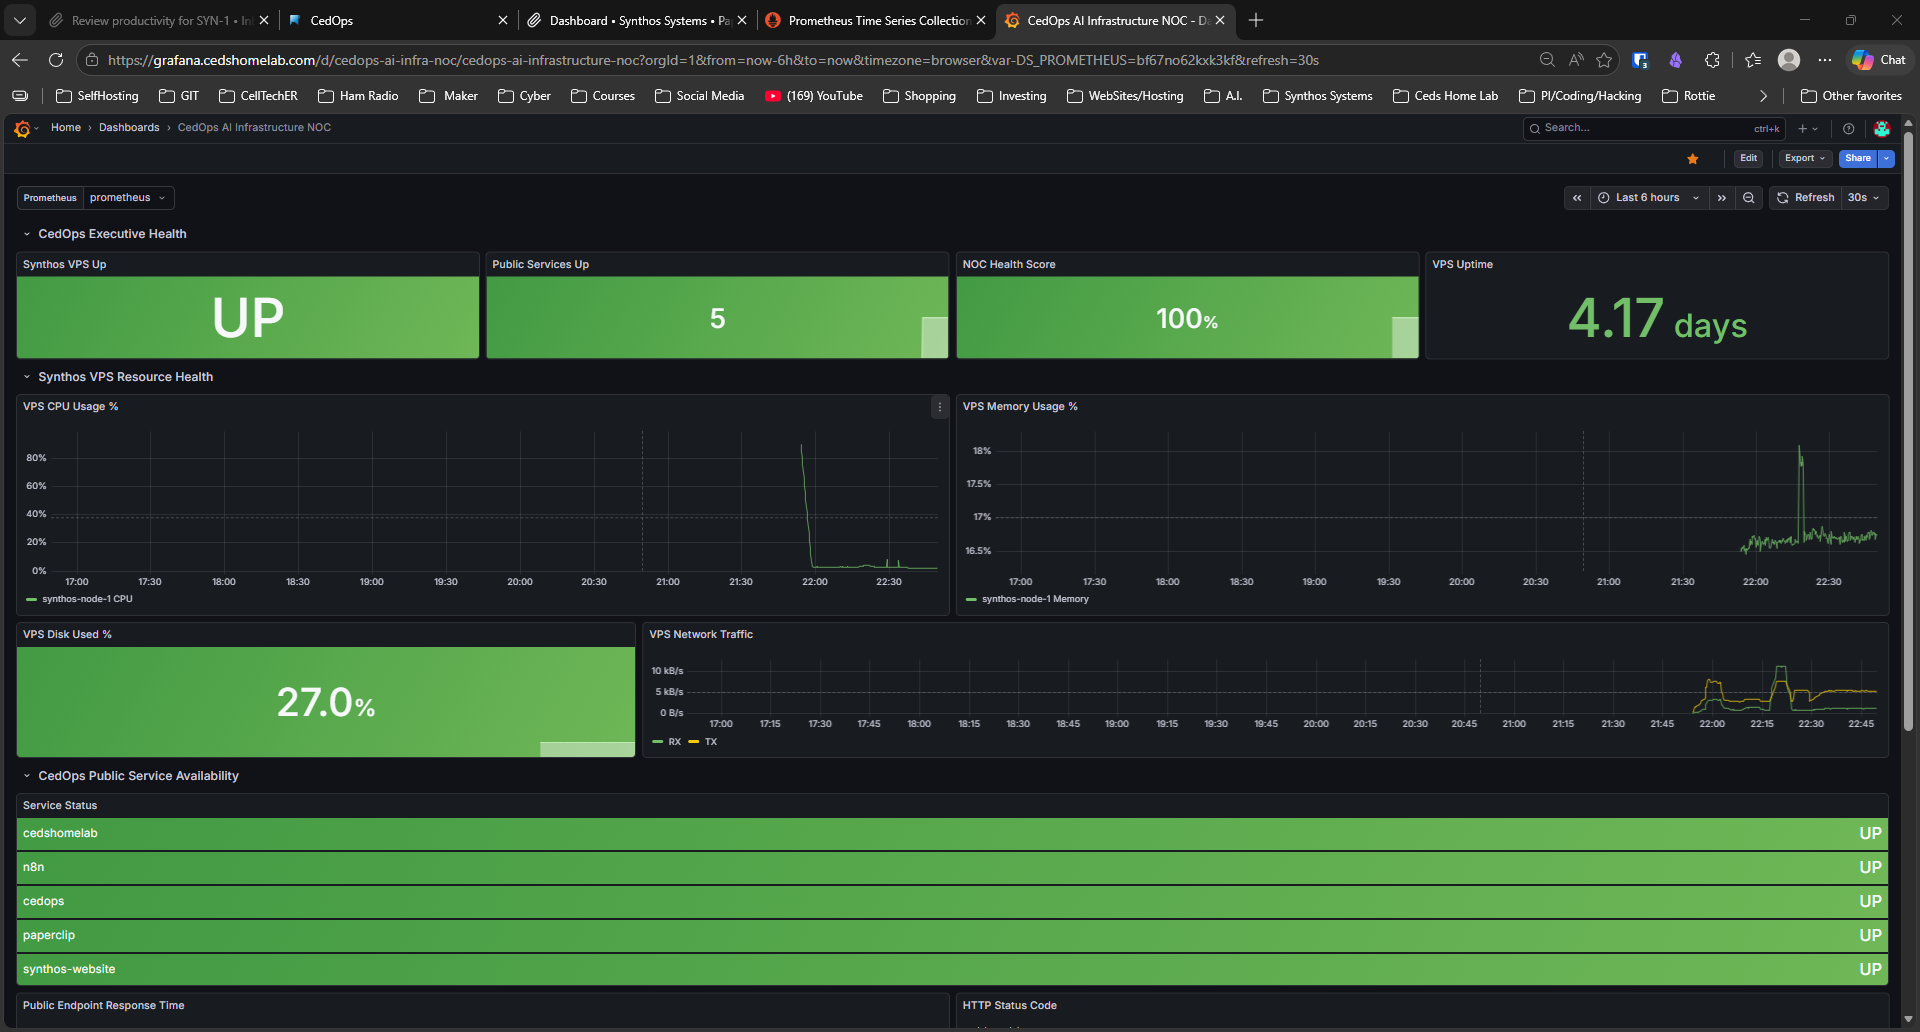
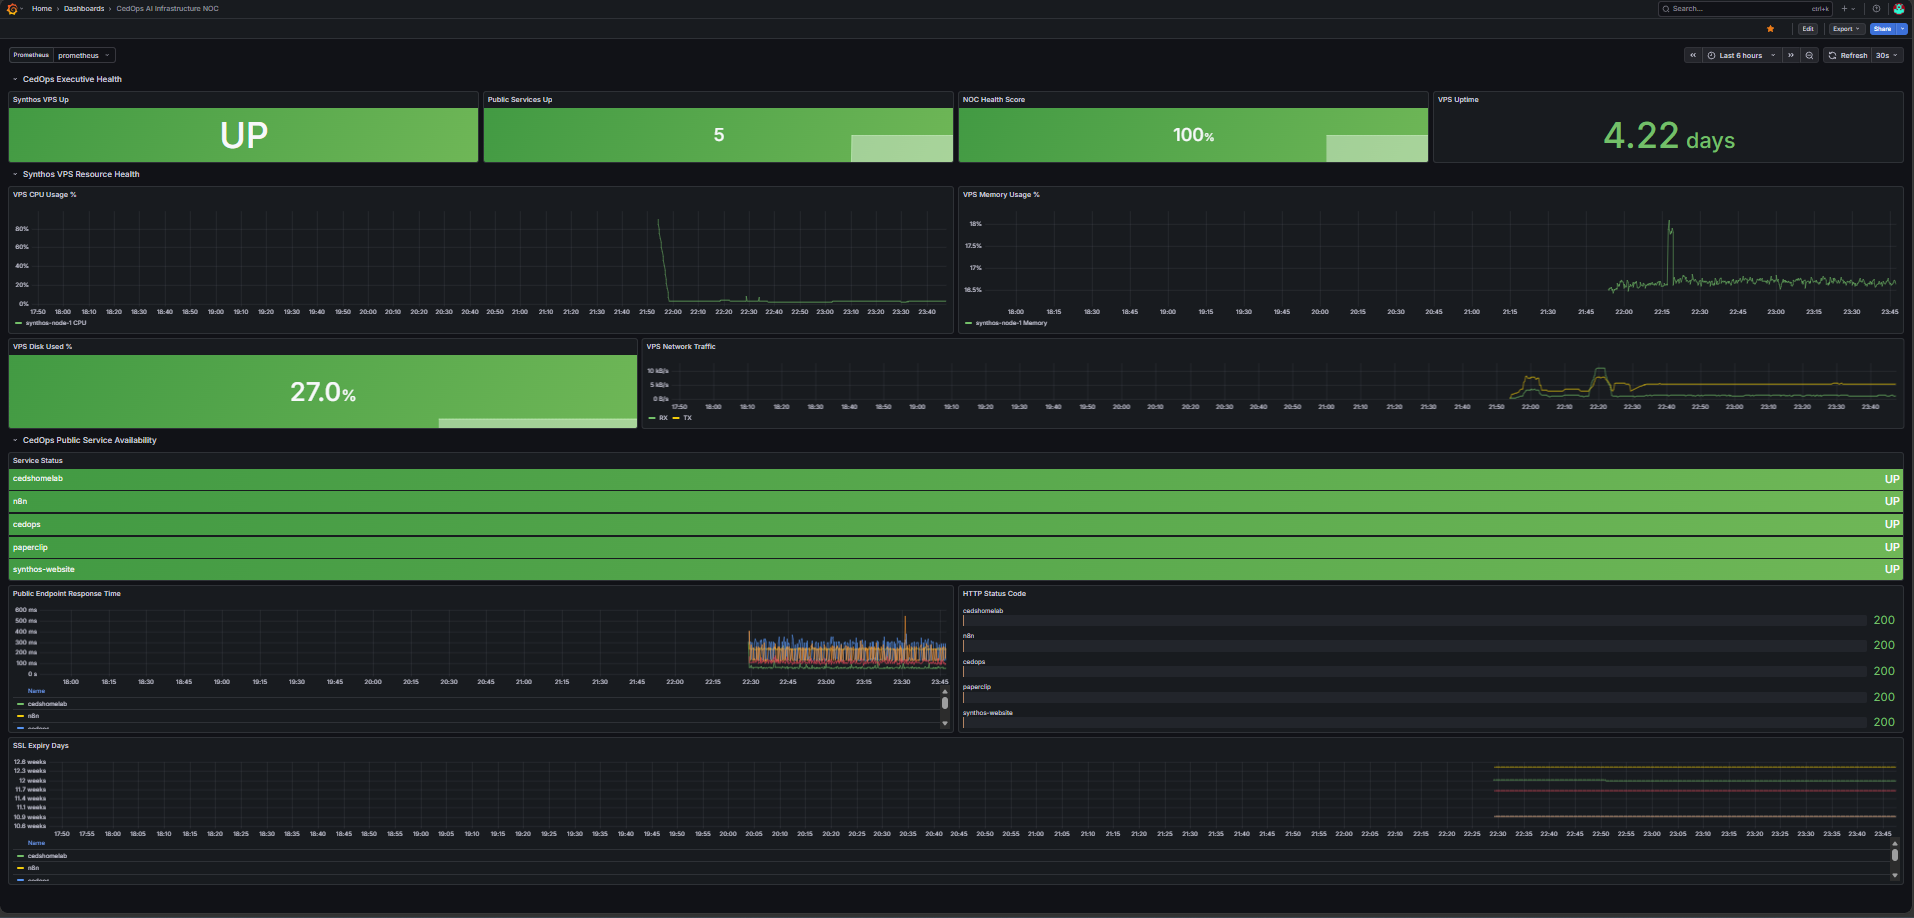
Add elite README for CedOps AI Infrastructure NOC

diff --git a/README.md b/README.md
@@ -1,0 +1,246 @@
+# 🚀 CedOps — AI Infrastructure Operations NOC
+
+![Dashboard](docs/screenshots/dashboard_v1.png)
+
+## Overview
+
+CedOps is an **AI-Assisted Infrastructure Operations Platform** designed to provide centralized monitoring, observability, uptime management, and operational visibility across a hybrid environment of:
+
+- 🏠 Homelab Infrastructure
+- ☁ VPS Cloud Infrastructure
+- 🤖 AI Operations Systems
+- 🌐 Public-Facing Services
+- 📡 Network & Platform Health
+
+The platform combines:
+
+- **Prometheus** for metrics collection
+- **Grafana** for visualization
+- **Blackbox Exporter** for service monitoring
+- **Node Exporter** for infrastructure metrics
+- **Tailscale** for secure private observability
+- **Proxmox VE** for virtualization
+- **Docker** for service deployment
+
+---
+
+# 🎯 Project Goals
+
+CedOps was built to simulate a **real-world Platform Engineering / Infrastructure Operations environment**.
+
+Goals:
+
+✅ Single-pane-of-glass infrastructure visibility  
+✅ Secure observability without exposing services publicly  
+✅ Hybrid monitoring (on-prem + cloud)  
+✅ Public service uptime tracking  
+✅ AI platform monitoring  
+✅ Portfolio-grade infrastructure engineering project
+
+---
+
+# 🏗 Architecture Overview
+
+```text
+                    Internet
+                        │
+            ┌───────────┴───────────┐
+            │   Public Services     │
+            │ synthossystems.com    │
+            │ noc.chasedumphord.com │
+            │ cedshomelab.com       │
+            └───────────┬───────────┘
+                        │
+                 Blackbox Exporter
+                        │
+                        ▼
+               Prometheus Monitoring
+                (10.10.30.140)
+                        │
+        ┌───────────────┼────────────────┐
+        │               │                │
+        ▼               ▼                ▼
+   Proxmox Nodes    K3s Cluster     Hetzner VPS
+   Node Exporter    Monitoring      synthos-node-1
+                                         │
+                                   Node Exporter
+                                         │
+                                     Tailscale
+```
+
+---
+
+# 🖥 Dashboard Features
+
+## Executive Health
+
+- VPS Status
+- Public Services Status
+- NOC Health Score
+- Uptime Metrics
+
+## Infrastructure Monitoring
+
+- CPU Usage
+- Memory Utilization
+- Disk Usage
+- Network Traffic
+
+## Public Service Monitoring
+
+Tracked via Blackbox Exporter:
+
+- CedOps
+- n8n
+- Paperclip
+- Synthos Website
+- Ced's Home Lab
+- Grafana
+- Prometheus
+
+## Reliability Monitoring
+
+- HTTP Status Codes
+- Response Times
+- Endpoint Availability
+- Service Reachability
+
+---
+
+# 📸 Dashboard Screenshots
+
+## CedOps Infrastructure NOC (V1)
+
+![Dashboard V1](docs/screenshots/dashboard_v1.png)
+
+---
+
+# 🔒 Security Architecture
+
+CedOps prioritizes **secure observability**.
+
+### No Public Prometheus Exposure
+
+Infrastructure metrics are collected using:
+
+**Tailscale private networking**
+
+Benefits:
+
+- Encrypted communication
+- Zero Trust access
+- No public metrics exposure
+- Private infrastructure scraping
+
+### Monitoring Stack
+
+| Tool | Purpose |
+|------|---------|
+| Prometheus | Metrics collection |
+| Grafana | Visualization |
+| Blackbox Exporter | Uptime checks |
+| Node Exporter | Linux system metrics |
+| Tailscale | Secure networking |
+| Docker | Service deployment |
+| Proxmox | Virtualization |
+
+---
+
+# 📂 Repository Structure
+
+```text
+cedops-ai-infrastructure-noc/
+│
+├── docs/
+│   ├── architecture/
+│   ├── screenshots/
+│   └── sops/
+│
+├── grafana/
+│   └── cedops-ai-infrastructure-noc-v1.json
+│
+├── prometheus/
+│   ├── prometheus-example.yml
+│   └── blackbox-targets-example.yml
+│
+├── diagrams/
+│   └── cedops-architecture.mmd
+│
+└── README.md
+```
+
+---
+
+# 🛠 Skills Demonstrated
+
+### Platform Engineering
+- Infrastructure Monitoring
+- Observability Design
+- Service Reliability
+- Secure Networking
+
+### DevOps
+- Linux Administration
+- Docker
+- YAML Configuration
+- Troubleshooting
+
+### Cloud & Infrastructure
+- Hetzner VPS
+- Proxmox Virtualization
+- Hybrid Infrastructure
+- Private Networking
+
+### Monitoring & Observability
+- Prometheus
+- Grafana
+- Blackbox Exporter
+- Alerting
+- Metrics Design
+
+---
+
+# 💼 Resume Relevance
+
+This project demonstrates real-world experience with:
+
+**Platform Engineering**  
+**Infrastructure Monitoring**  
+**Observability Engineering**  
+**DevOps Workflows**  
+**Cloud + On-Prem Hybrid Systems**
+
+---
+
+# 🔮 Roadmap
+
+## V2 Dashboard
+
+- SSL Expiration Monitoring
+- Alert Feed
+- SLA Tracking
+- Reliability Scoring
+- Capacity Metrics
+
+## Future Enhancements
+
+- Telegram Alerts
+- Discord Notifications
+- AI Incident Detection
+- Automated Remediation
+- Multi-Environment Monitoring
+
+---
+
+# 👨💻 Author
+
+### Chase Dumphord
+
+Digital Systems Engineer | Infrastructure & Platform Engineering | Observability | AI Systems
+
+GitHub: https://github.com/ced4568
+
+Portfolio:
+- https://chasedumphord.com
+- https://noc.chasedumphord.com
+- https://cedshomelab.com
